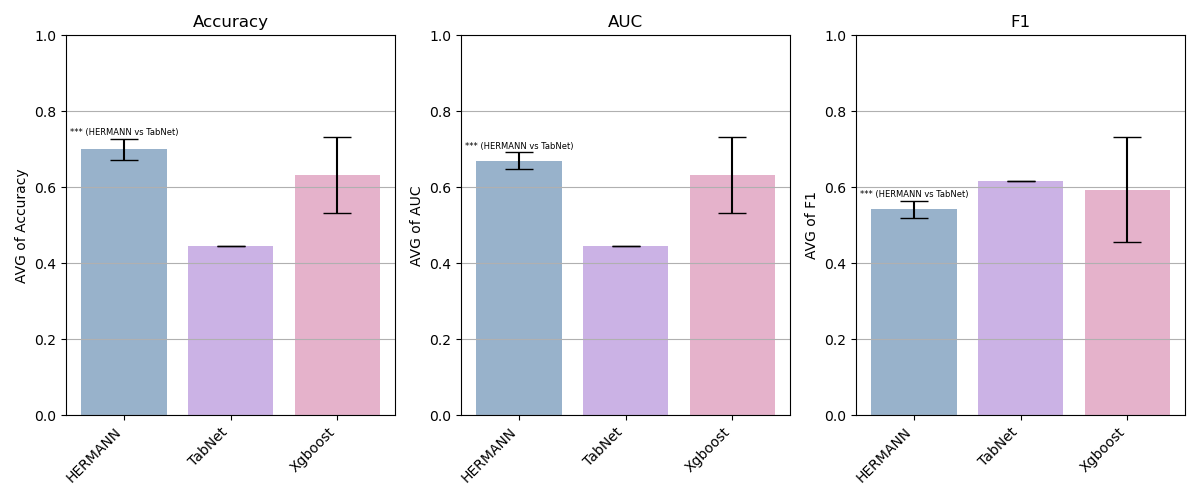
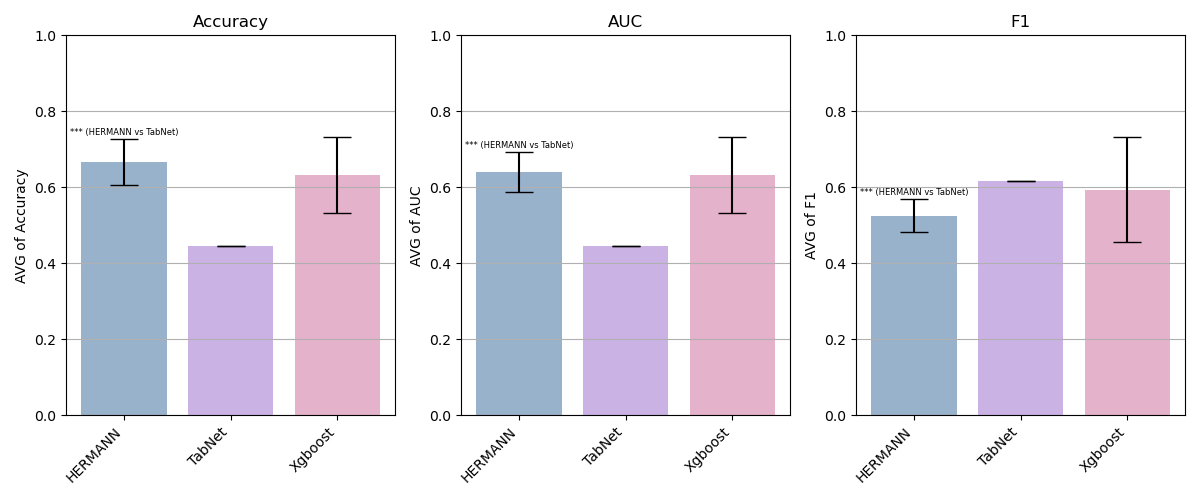
-

diff --git a/examples/microbiome/compare.py b/examples/microbiome/compare.py
@@ -1,7 +1,8 @@
 import pickle
 import matplotlib.pyplot as plt
-import numpy as np
+
 from scipy.stats import f_oneway, ttest_ind
+import numpy as np
 
 
 def visualize(our_r, tabnet_r, xgboost_r, ax, label):
@@ -55,6 +56,38 @@ if __name__ == '__main__':
 
     with open("results_xgboost.pkl", "rb") as f:
         xgboost_r = pickle.load(f)
+
+    hermann_best = np.argmax(our_r[0])
+    tab_best = np.argmax(tabnet_r[0])
+    xgboost_best = np.argmax(xgboost_r[0])
+
+    print("Best stats for hermann")
+    print(f"acc: {our_r[0][hermann_best]}\tauc: {our_r[1][hermann_best]}\tf1: {our_r[2][hermann_best]}")
+    print("Best stats for tabnet")
+    print(f"acc: {tabnet_r[0][tab_best]}\tauc: {tabnet_r[1][tab_best]}\tf1: {tabnet_r[2][tab_best]}")
+    print("Best stats for xgboost")
+    print(f"acc: {xgboost_r[0][xgboost_best]}\tauc: {xgboost_r[1][xgboost_best]}\tf1: {xgboost_r[2][xgboost_best]}")
+    print()
+
+    # mean and std of models:
+    print("Mean and std of models:")
+    print("HERMANN:")
+    print(f"Accuracy: {np.mean(our_r[0])} ± {np.std(our_r[0])}")
+    print(f"AUC: {np.mean(our_r[1])} ± {np.std(our_r[1])}")
+    print(f"F1: {np.mean(our_r[2])} ± {np.std(our_r[2])}")
+    print()
+    print("TabNet:")
+    print(f"Accuracy: {np.mean(tabnet_r[0])} ± {np.std(tabnet_r[0])}")
+    print(f"AUC: {np.mean(tabnet_r[1])} ± {np.std(tabnet_r[1])}")
+    print(f"F1: {np.mean(tabnet_r[2])} ± {np.std(tabnet_r[2])}")
+    print()
+    print("Xgboost:")
+    print(f"Accuracy: {np.mean(xgboost_r[0])} ± {np.std(xgboost_r[0])}")
+    print(f"AUC: {np.mean(xgboost_r[1])} ± {np.std(xgboost_r[1])}")
+    print(f"F1: {np.mean(xgboost_r[2])} ± {np.std(xgboost_r[2])}")
+    print()
+
+
 
     stat_acc = f_oneway(our_r[0], tabnet_r[0], xgboost_r[0])  # Accuracy
     stat_auc = f_oneway(our_r[1], tabnet_r[1], xgboost_r[1])  # AUC

diff --git a/examples/metabolites/compare.py b/examples/metabolites/compare.py
@@ -57,6 +57,38 @@ if __name__ == '__main__':
     with open("results_xgboost.pkl", "rb") as f:
         xgboost_r = pickle.load(f)
 
+    hermann_best = np.argmax(our_r[0])
+    tab_best = np.argmax(tabnet_r[0])
+    xgboost_best = np.argmax(xgboost_r[0])
+
+    print("Best stats for hermann")
+    print(f"acc: {our_r[0][hermann_best]}\tauc: {our_r[1][hermann_best]}\tf1: {our_r[2][hermann_best]}")
+    print("Best stats for tabnet")
+    print(f"acc: {tabnet_r[0][tab_best]}\tauc: {tabnet_r[1][tab_best]}\tf1: {tabnet_r[2][tab_best]}")
+    print("Best stats for xgboost")
+    print(f"acc: {xgboost_r[0][xgboost_best]}\tauc: {xgboost_r[1][xgboost_best]}\tf1: {xgboost_r[2][xgboost_best]}")
+    print()
+
+    # mean and std of models:
+    print("Mean and std of models:")
+    print("HERMANN:")
+    print(f"Accuracy: {np.mean(our_r[0])} ± {np.std(our_r[0])}")
+    print(f"AUC: {np.mean(our_r[1])} ± {np.std(our_r[1])}")
+    print(f"F1: {np.mean(our_r[2])} ± {np.std(our_r[2])}")
+    print()
+    print("TabNet:")
+    print(f"Accuracy: {np.mean(tabnet_r[0])} ± {np.std(tabnet_r[0])}")
+    print(f"AUC: {np.mean(tabnet_r[1])} ± {np.std(tabnet_r[1])}")
+    print(f"F1: {np.mean(tabnet_r[2])} ± {np.std(tabnet_r[2])}")
+    print()
+    print("Xgboost:")
+    print(f"Accuracy: {np.mean(xgboost_r[0])} ± {np.std(xgboost_r[0])}")
+    print(f"AUC: {np.mean(xgboost_r[1])} ± {np.std(xgboost_r[1])}")
+    print(f"F1: {np.mean(xgboost_r[2])} ± {np.std(xgboost_r[2])}")
+    print()
+
+
+
     stat_acc = f_oneway(our_r[0], tabnet_r[0], xgboost_r[0])  # Accuracy
     stat_auc = f_oneway(our_r[1], tabnet_r[1], xgboost_r[1])  # AUC
     stat_f1 = f_oneway(our_r[2], tabnet_r[2], xgboost_r[2])  # F1

diff --git a/examples/metabolites/model.py b/examples/metabolites/model.py
@@ -21,8 +21,8 @@ class SimpleCNN(nn.Module):
         self.bn2 = nn.BatchNorm2d(64)
         self.dropout2 = nn.Dropout2d(p=0.25)  # Dropout with probability 0.25
         self.pool = nn.MaxPool2d(2, 2)
-        self.fc1 = nn.Linear(64 * 32, 64)
-        self.fc2 = nn.Linear(64, 2)  # Assuming binary classification
+        self.fc1 = nn.Linear(64 * 32, 128)
+        self.fc2 = nn.Linear(128, 2)  # Assuming binary classification
         self.dropout3 = nn.Dropout(p=0.5)  # Dropout with probability 0.5 for fully connected layer
 
     def forward(self, x):
